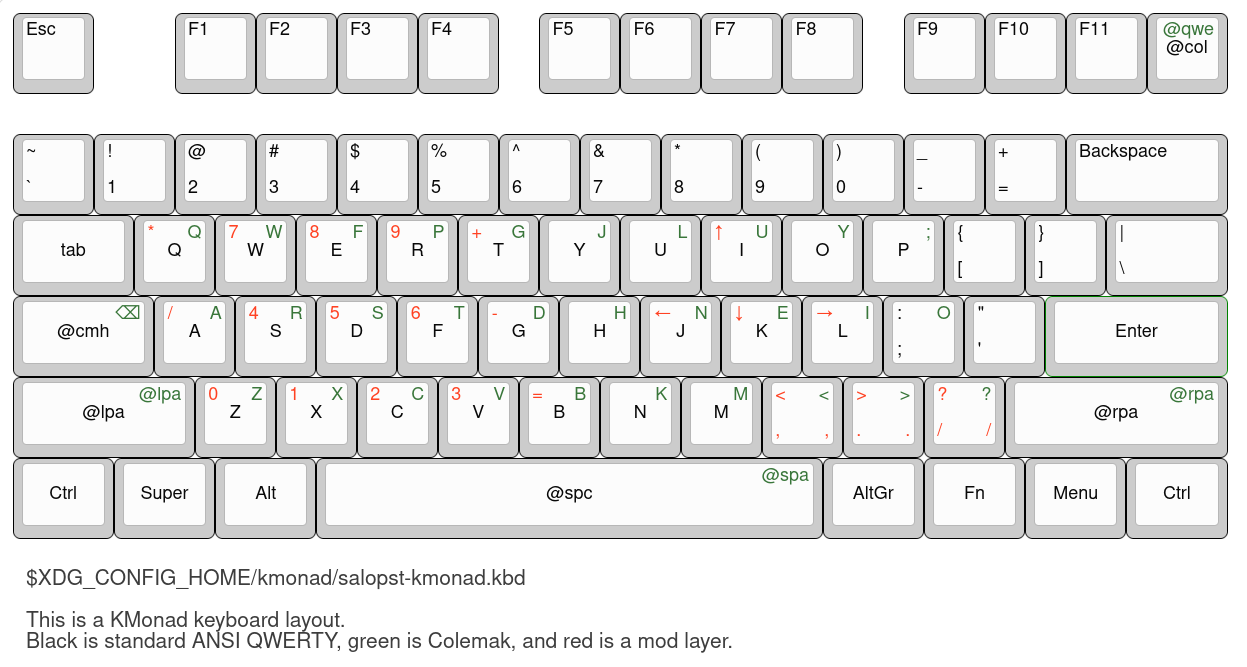
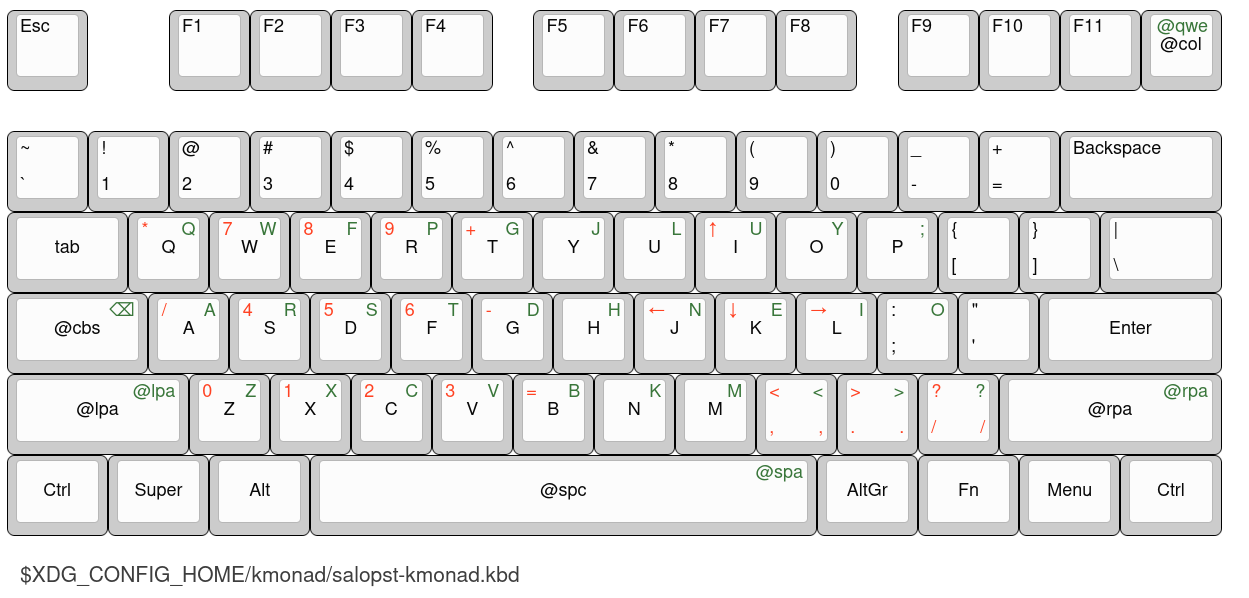
Initial commit.

diff --git a/content/posts/2021-12-13-kmonad-colemak-handy-key-bindings.md b/content/posts/2021-12-13-kmonad-colemak-handy-key-bindings.md
@@ -1,0 +1,167 @@
+---
+title: "KMonad, Colemak, key rebinds, typing and such"
+author: yearluk
+date: 2021-12-13T14:12:13+00:00
+lastMod: 2022-03-25T06:45:16+00:00
+origin: scratch
+draft: false
+toc: false
+noLicense: false
+weight: 1001
+images: null
+categories: 
+- Tech
+- Linux
+tags:
+- keyboard
+- hardware
+- keybindings
+- keymaps
+---
+
+I don't know why— boredom, perhaps? A never ending desire to fill the void with *something*, like Kierkegaard's degenerate aesthete?— but I'm sort of interested in learning the Colemak keyboard layout. Perhaps it's a feeble attempt to gloss over the fact that I never really learned to touch-type properly anyway. Quién sabe?
+
+At the very least, I should learn just how much QWERTY muscle memory there is in my fingers and wrists (even [the broken one](https://stephen.yearl.us/oopsies-iii/), where the actions of digiti III and IV were transposed almost ten years ago). It was a little weird that the muscles that should move II are wired to IV and vice versa, but brain has sort of compensated for that. Nothing short of amazing really.
+
+## Colemak
+
+Why? Well, we all know the history of QWERTY, so no need to repeat that. It's suboptimal (depending on how you define optimal, ofc), and other keyboard layouts not hampered by the egigencies of lever-and-cog operated buttons are grouped in such a way as to make more use of the stonger fingers, generally dominant hand, whatever.
+
+Aaaand Colemak, it seems, is a re-ordering of keys such that many often used letters fall under the stronger fingers of the right hand on the home row. Neat. Also, it is not as crazy as the better-known Dvorak, since punctuation and several QWERTY locations remain in situ.
+
+## Desired keyboard modifications
+
+- Have had Caps Lock mapped to Ctrl for some time. Thanks `XModmap`!
+- **WANT** Caps Lock *tap* to backspace and *hold* for Ctrl
+- **WANT** tap shifts to be parens, hold for regular shift
+- **WANT** *SOMETHING* + ijkl as arrow keys
+- **WANT** space + something as a pseudo numberpad
+
+~/$HOME/.Xmodmap`:
+
+```bash
+clear lock
+clear control
+add control = Caps_Lock Control_L Control_R
+keycode 66 = Control_L Caps_Lock NoSymbol NoSymbol
+```
+
+## Getting keysyms and keycodes-- an example
+
+We can use `xev` to get 'code points' for keypress (and release) events. So, for example, the `【fn】` button on the Lenovo Thinkpad T460:
+
+```bash
+KeyRelease event, serial 37, synthetic NO, window 0xa800001,
+    root 0x7a5, subw 0x0, time 41053611, (272,536), root:(310,614),
+    state 0x0, keycode 151 (keysym 0x1008ff2b, XF86WakeUp), same_screen YES,
+    XLookupString gives 0 bytes:
+    XFilterEvent returns: False
+```
+
+## Installing KMonad
+
+1. Install [stack](https://github.com/commercialhaskell/stack) to compile Haskell projects. We are going to be using this to compile [KMonad](https://github.com/kmonad/kmonad):
+
+```bash
+curl -sSL https://get.haskellstack.org/ | sh
+```
+
+2. Compile Kmonad:
+
+```bash
+cd ~/src && git clone git@github.com:kmonad/kmonad.git
+cd kmonad
+# stack build   # To build only the binary
+# stack haddock # To build the binary and the docs
+stack install # builds and installs
+```
+
+3. Get the system keyboard (here a laptop):
+
+```bash
+ls /dev/input/by-path
+#=>
+platform-i8042-serio-0-event-kbd
+```
+
+External baoads are listed in `/dev/input/by-id`
+
+5. Run KMonad
+
+```bash
+kmonad ~/.config/kmonad/salopst-kmonad.kbd
+#=> kmonad: /dev/uinput: openFd: permission denied (Permission denied)
+sudo modprobe uinput
+sudo groupadd uinput
+sudo usermod -aG input `whoami`
+sudo usermod -aG uinput `whoami`
+```
+
+Make a file `~/.config/kmonad/50-kmonad-input.rules` containing
+
+```text
+KERNEL=="uinput", MODE="0660", GROUP="uinput", OPTIONS+="static_node=uinput"
+```
+
+and copy it to the relevant udev directory
+
+`sudo cp ~/.config/kmonad/50-kmonad-input.rules /etc/udev/rules.d/`
+
+and logout/login.
+
+## Configuring KMonad
+
+- Gonna keep my config in `$XDG_HOME/kmonad/salopst-kmonad.kbd`
+
+- Load up a copy of the tutorial in editor *du jour* and work though the tutorial:
+
+```bash
+wget https://github.com/kmonad/kmonad/blob/master/keymap/tutorial.kbd -O $HOME/.config/kmonad/kmonad-tutorial2.kbd
+code $HOME/.config/kmonad/kmonad-tutorial.kbd
+```
+
+Make thee the changes here and there, run the modifications, make changes, rerun the modified config… rinse and repeat. You know the trial-and-error drill.
+
+Current configuration gives me:
+
+- "Left-hand" numberpad when holding space.
+- Navigation with  【i】↑,【j】←,【k】↓ and【l】→ when holding space.
+- Left and right parens when tapping (but not holding) left and right shift
+- Capslock as Ctrl when held; backspace when tapped
+- Colemak layer when pressing 【F12】
+
+{{< image src="/uploads/2022-03-25-salopst-kmonad.png" alt="KMonad Layout" position="center" style="border-radius: 30px;" >}}
+[http://www.keyboard-layout-editor.com/#/gists/0a3ef725e2c72fee30bd9a1e3301927a](http://www.keyboard-layout-editor.com/#/gists/0a3ef725e2c72fee30bd9a1e3301927a)
+
+## Una pequeña problema
+
+The input source will differ depending on whether or not an external keyboard is used. This is problematic becuase my laptop is often plugged into a Lenovo Ultradock to which is connected a USB keyboard, thus, either one of two should be un-commented, depending on the connection.
+
+```bash
+(defcfg
+  ;; laptop... `ls /dev/input/by-path`
+  ;; input (device-file "/dev/input/by-path/platform-i8042-serio-0-event-kbd")
+  ;; desktop... `ls /dev/input/by-id `
+     input (device-file "/dev/input/by-id/usb-MAX_Blackbird_TKL_MAX_Blackbird_TKL-event-kbd")
+)
+```
+
+**TODO** Wrap `Kmonad` in a script to check if external boards are present, so an "If I am docked do load X" sort of thing
+
+## References and resources
+
+- "Colemak central": <https://colemakmods.github.io/mod-dh/>
+- A Modern Space Cadet: <https://stevelosh.com/blog/2012/10/a-modern-space-cadet/#s17-shift-parentheses>
+- KMonad tutorial file <https://github.com/kmonad/kmonad/blob/master/keymap/tutorial.kbd>
+- KMonad example for the HHK mod layer: <https://gist.github.com/foosel/774f3d47f80ff4759e3ca133451c3ef0>
+- KMonad vi layer: <https://github.com/salahdin-ahmed/dotfiles/tree/master/.config>
+
+### Typing tutor/test sites
+
+- <https://monkeytype.com>
+- <https://www.ratatype.com/>
+- <https://www.typing.com/>
+- <https://www.typingclub.com/>
+- <https://keybr.br/>
+- <https://10fastfingers.com>
+- <https://www.colemak.academy/>
